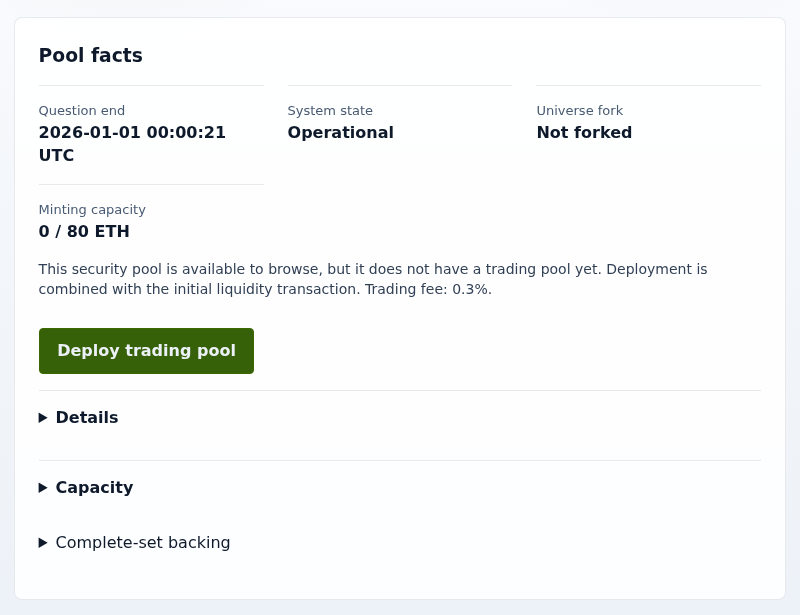
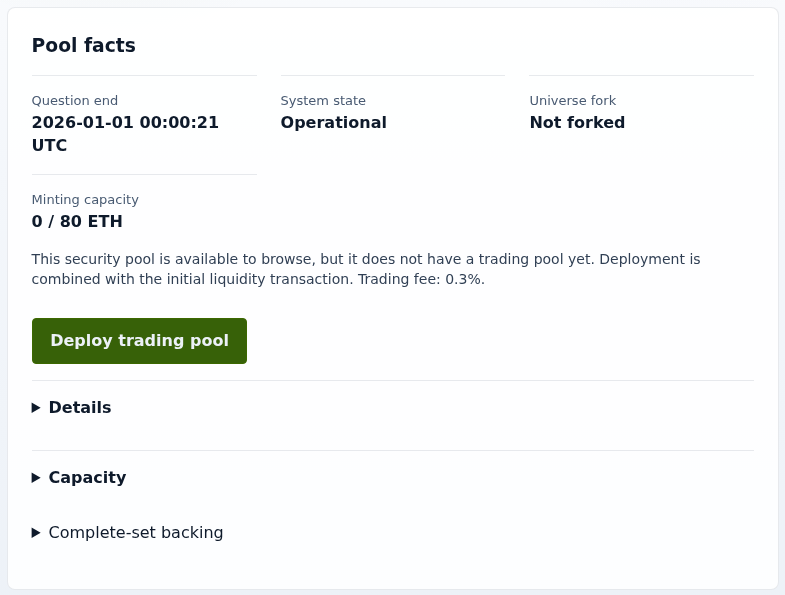
Recapture Trading and Zoltar screenshots after merging main

diff --git a/docs/tutorials/trading-first-market.html b/docs/tutorials/trading-first-market.html
@@ -32,7 +32,7 @@
 				</figure>
 				<p>The details page tells you whether the SecurityPool can take a market. A <strong>Deploy trading pool</strong> button means it can; a disabled <strong>Initialize trading pool</strong> button names the reason it cannot, such as <em>Question ended — pair initialization unavailable</em>. <strong>Minting capacity</strong> shows the collateral already minted against the pool's ceiling (used / ceiling); your deposit must fit in the difference.</p>
 				<figure class="screenshot" id="fig-trading-pool-details" aria-labelledby="fig-trading-pool-details-caption">
-					<a class="screenshot-link" href="../assets/screenshots/trading/security-pool-details.png"><img width="800" height="615" src="../assets/screenshots/trading/security-pool-details.png" alt="The security pool details page showing question end, system state Operational, universe not forked, minting capacity 0 of 80 ETH, and a Deploy trading pool button." loading="lazy" /></a>
+					<a class="screenshot-link" href="../assets/screenshots/trading/security-pool-details.png"><img width="785" height="595" src="../assets/screenshots/trading/security-pool-details.png" alt="The security pool details page showing question end, system state Operational, universe not forked, minting capacity 0 of 80 ETH, and a Deploy trading pool button." loading="lazy" /></a>
 					<figcaption id="fig-trading-pool-details-caption"><span class="figure-label">An eligible pool.</span> The pool is operational, its universe has not forked, and it has capacity for new collateral.</figcaption>
 				</figure>
 			</section>
